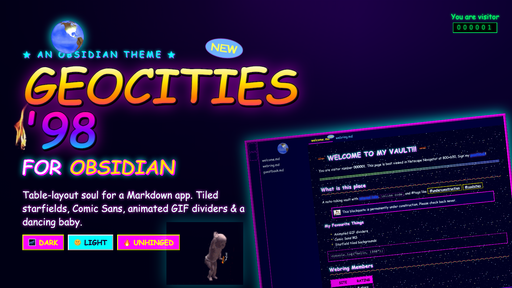
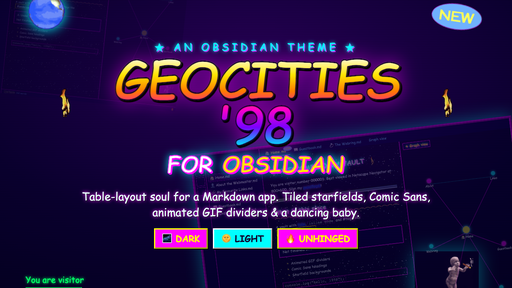
Recompose hero: native 1200x800 full-bleed, centered wordmark (survives store crop)

diff --git a/promo.src.html b/promo.src.html
@@ -1,84 +1,88 @@
 <!doctype html><html><head><meta charset="utf-8"><style>
   * { margin:0; padding:0; box-sizing:border-box; }
-  html,body { width:1600px; height:900px; overflow:hidden;
+  html,body { width:1200px; height:800px; overflow:hidden;
     font-family:"Comic Sans MS","Comic Neue",cursive; }
   .stage {
-    position:relative; width:1600px; height:900px;
+    position:relative; width:1200px; height:800px;
     background:
-      radial-gradient(120% 90% at 50% 0%, #2a005a 0%, #0a0030 45%, #000018 100%),
+      radial-gradient(120% 100% at 50% 30%, #2a005a 0%, #0a0030 48%, #000018 100%),
       url("__STARTILE__");
     background-size: cover, 128px 128px;
     overflow:hidden;
   }
-  /* scanline / crt vibe */
+  /* ambient screenshot of the real theme, dim, full-bleed behind */
+  .shot{ position:absolute; right:-60px; bottom:-40px; width:760px; opacity:.32;
+    transform:rotate(-7deg); transform-origin:bottom right;
+    border:6px ridge #ff00ff; box-shadow:0 0 40px #00ffff; }
+  .shot img{ display:block; width:100%; }
+  .shot2{ position:absolute; left:-90px; top:-50px; width:520px; opacity:.16;
+    transform:rotate(6deg); }
+  .shot2 img{ display:block; width:100%; }
   .stage::after{ content:""; position:absolute; inset:0; pointer-events:none;
     background:repeating-linear-gradient(0deg,rgba(0,0,0,.10) 0 2px,transparent 2px 4px);
     mix-blend-mode:multiply; }
 
-  /* angled screenshot of the real theme */
-  .shot{ position:absolute; right:-40px; bottom:-30px; width:820px;
-    transform:rotate(-6deg); transform-origin:bottom right;
-    border:8px ridge #ff00ff; box-shadow:0 0 40px #00ffff, 0 20px 60px rgba(0,0,0,.6);
-    filter:saturate(1.05); }
-  .shot img{ display:block; width:100%; }
+  /* centered hero — safe against any store crop */
+  .hero{ position:absolute; inset:0; z-index:3;
+    display:flex; flex-direction:column; align-items:center; justify-content:center;
+    text-align:center; padding:0 130px; }
 
-  /* dark scrim on left so wordmark pops */
-  .scrim{ position:absolute; inset:0;
-    background:linear-gradient(90deg, rgba(0,0,20,.85) 0%, rgba(0,0,20,.55) 40%, transparent 70%); }
+  .kicker{ color:#00ffff; font-size:24px; letter-spacing:7px; text-transform:uppercase;
+    text-shadow:0 0 8px #00ffff,2px 2px 0 #ff00ff; margin-bottom:2px; }
 
-  .hero{ position:absolute; left:70px; top:150px; z-index:3; width:900px; }
-
-  .kicker{ color:#00ffff; font-size:26px; letter-spacing:6px; text-transform:uppercase;
-    text-shadow:0 0 8px #00ffff,2px 2px 0 #ff00ff; margin-bottom:6px; }
-
-  /* WordArt-style chrome wordmark */
+  .wordwrap{ display:flex; align-items:center; gap:20px; }
+  .flame{ width:44px; height:96px; background:url("__FIRE__") no-repeat center / contain;
+    mix-blend-mode:screen; flex:0 0 auto; }
   .word{
-    font-weight:700; line-height:.92; text-transform:uppercase;
-    font-size:150px; letter-spacing:-2px;
+    font-weight:700; line-height:.9; text-transform:uppercase;
+    font-size:118px; letter-spacing:-2px;
     background:linear-gradient(#ffffff 0%, #ffe600 22%, #ff7b00 40%, #ff00c8 60%, #7a00ff 80%, #00e0ff 100%);
     -webkit-background-clip:text; background-clip:text; color:transparent;
     -webkit-text-stroke:3px #10002a;
     filter:drop-shadow(4px 4px 0 #000) drop-shadow(0 0 22px rgba(255,0,255,.55));
     transform:skewX(-6deg);
   }
-  .word .yr{ font-size:150px; }
-  .forob{ margin-top:8px; font-size:60px; font-weight:700; transform:skewX(-6deg);
+  .yr{ font-size:118px; }
+  .forob{ margin-top:6px; font-size:52px; font-weight:700; transform:skewX(-6deg);
     color:#fff; -webkit-text-stroke:2px #ff00ff;
     text-shadow:3px 3px 0 #ff00ff, 0 0 18px #00ffff; }
   .forob b{ color:#ffe600; }
 
-  .tag{ margin-top:26px; font-size:30px; color:#eafcff; max-width:720px;
+  .tag{ margin-top:22px; font-size:26px; color:#eafcff; max-width:820px;
     text-shadow:1px 1px 0 #000, 0 0 8px #ff00ff; }
   .chips{ margin-top:20px; display:flex; gap:12px; }
-  .chip{ font-size:22px; font-weight:700; padding:6px 16px; border-radius:0;
-    border:3px outset #ffff00; background:#ff00ff; color:#ffff00;
-    text-shadow:none; box-shadow:2px 2px 0 #000; }
+  .chip{ font-size:21px; font-weight:700; padding:6px 16px;
+    border:3px outset #ffff00; background:#ff00ff; color:#ffff00; box-shadow:2px 2px 0 #000; }
   .chip.b{ background:#00ffff; color:#10002a; border-color:#ffffff; }
 
-  /* GIF furniture */
-  .globe{ position:absolute; left:150px; top:60px; width:120px; z-index:4;
+  /* furniture — pulled inside safe margins */
+  .globe{ position:absolute; left:60px; top:44px; width:96px; z-index:4;
     filter:drop-shadow(0 0 14px #00ffff); }
-  .baby{ position:absolute; left:520px; bottom:10px; width:240px; z-index:7;
-    mix-blend-mode:screen; filter:drop-shadow(0 0 24px rgba(0,255,255,.35)); }
-  .fireL{ position:absolute; left:18px; top:300px; width:80px; z-index:4; mix-blend-mode:screen; }
-  .new{ position:absolute; left:640px; top:120px; width:120px; z-index:6; transform:rotate(8deg); }
-  .visitor{ position:absolute; right:40px; top:36px; z-index:6; text-align:center;
-    color:#00ff66; font-size:22px; text-shadow:0 0 6px #00ff66; }
+  .newb{ position:absolute; right:70px; top:70px; width:120px; z-index:6; transform:rotate(8deg); }
+  .baby{ position:absolute; right:78px; bottom:26px; width:150px; z-index:7;
+    mix-blend-mode:screen; filter:drop-shadow(0 0 22px rgba(0,255,255,.35)); }
+  .visitor{ position:absolute; left:60px; bottom:34px; z-index:6; text-align:left;
+    color:#00ff66; font-size:20px; text-shadow:0 0 6px #00ff66; }
   .visitor .num{ font-family:"Courier New",monospace; background:#000; color:#00ff66;
     border:2px inset #00ff66; padding:2px 10px; letter-spacing:6px; display:inline-block; margin-top:4px; }
 </style></head>
 <body>
 <div class="stage">
-  <div class="shot"><img src="__SHOT__" alt="theme screenshot"></div>
-  <div class="scrim"></div>
+  <div class="shot2"><img src="__SHOT__"></div>
+  <div class="shot"><img src="__SHOT__"></div>
 
   <img class="globe" src="__GLOBE__">
-  <img class="new" src="__NEW__">
-  <img class="fireL" src="__FIRE__">
+  <img class="newb" src="__NEW__">
 
   <div class="hero">
     <div class="kicker">★ An Obsidian Theme ★</div>
-    <div class="word">GeoCities<br><span class="yr">'98</span></div>
+    <div class="wordwrap">
+      <div class="flame"></div>
+      <div>
+        <div class="word">GeoCities <span class="yr">'98</span></div>
+      </div>
+      <div class="flame"></div>
+    </div>
     <div class="forob">FOR <b>OBSIDIAN</b></div>
     <div class="tag">Table-layout soul for a Markdown app. Tiled starfields, Comic&nbsp;Sans, animated GIF dividers &amp; a dancing baby.</div>
     <div class="chips">
@@ -89,7 +93,6 @@
   </div>
 
   <img class="baby" src="__BABY__">
-
   <div class="visitor">You are visitor<br><span class="num">000001</span></div>
 </div>
 </body></html>
